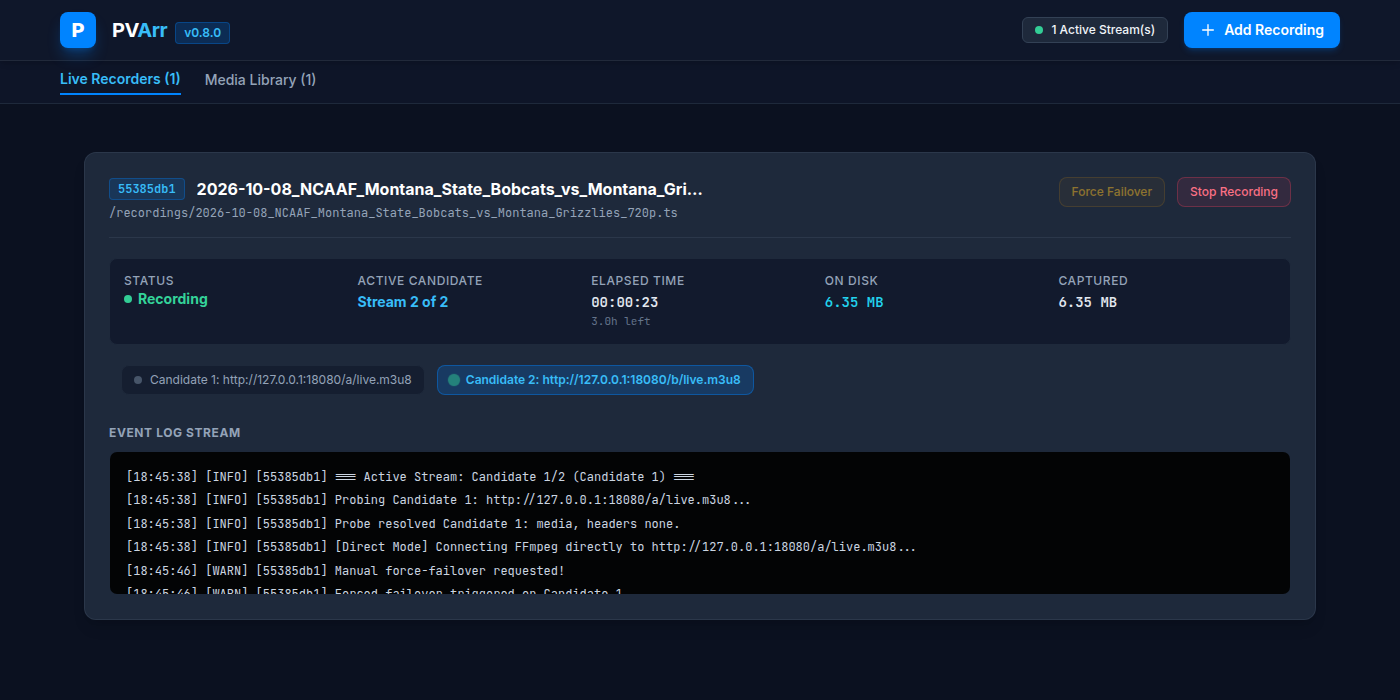
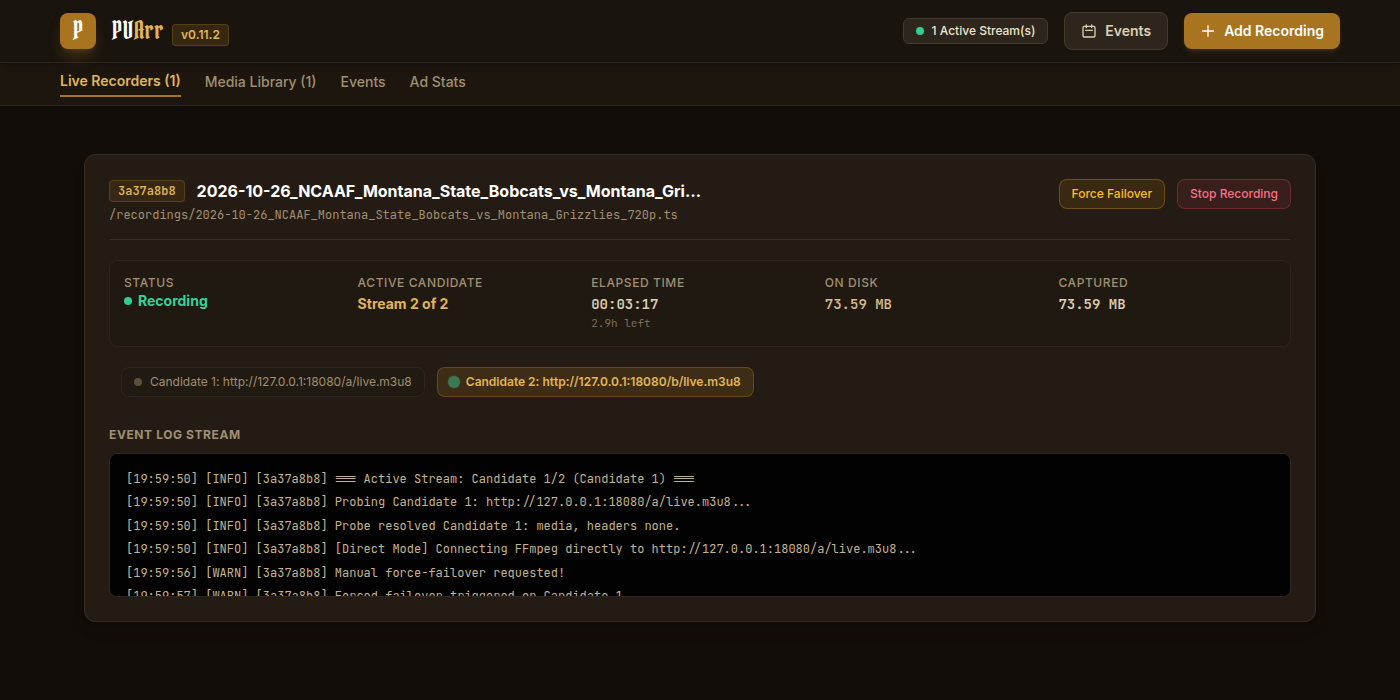
docs: retake README screenshot in the wood/brass theme
Same scene as before (two local synthetic test sources, recording after a
forced switch to the backup), taken from the released 0.11.2 image so the
paths read /recordings/... No real sites, nothing from the sponsor's browser.

Claude-Session: https://claude.ai/code/session_01CM8vViuJLqtVNeffJfcR1E

diff --git a/TODO.md b/TODO.md
@@ -13,8 +13,6 @@ messages, tests or screenshots. See README "Scope".
 
 Everything finished is in the private notes log (phases 1-33, through v0.11.0) and the release notes (`docs/release-notes/`, `CHANGELOG.md`). Only open work and standing decisions stay here.
 
-- [PENDING] Retake `docs/screenshot.png` (README) against a synthetic test
-  stream: it still shows the old blue theme, replaced by the brass/wood one.
 
 ## Closed by decision (not open work)
 - **Quantified AI footprint figures — will not add.** The build was never
